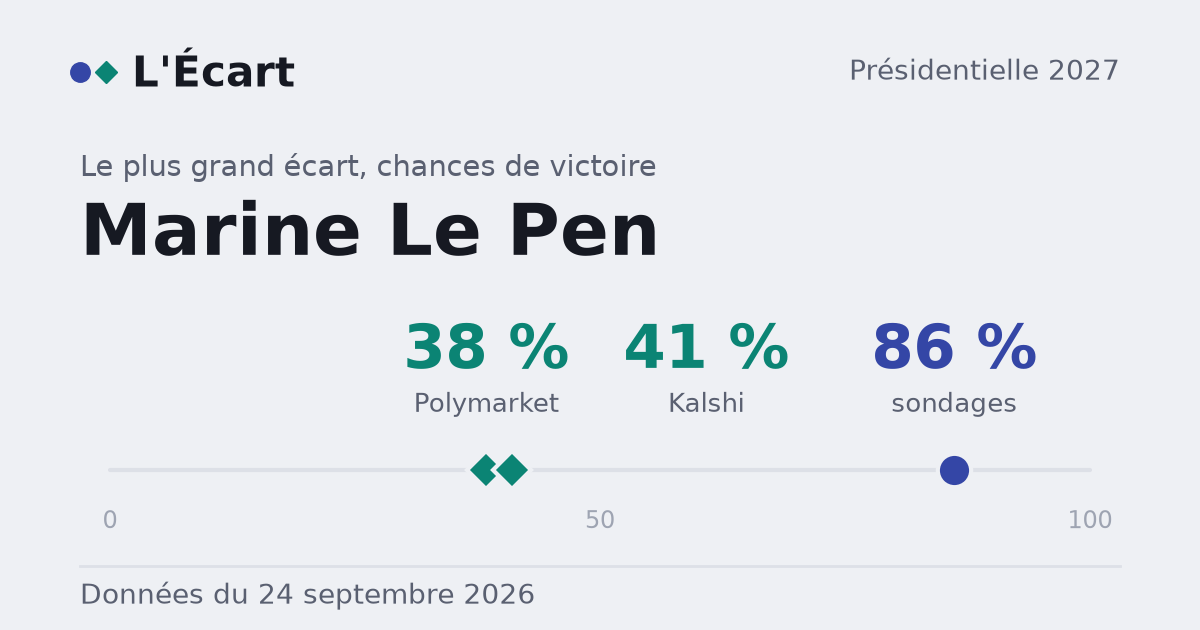
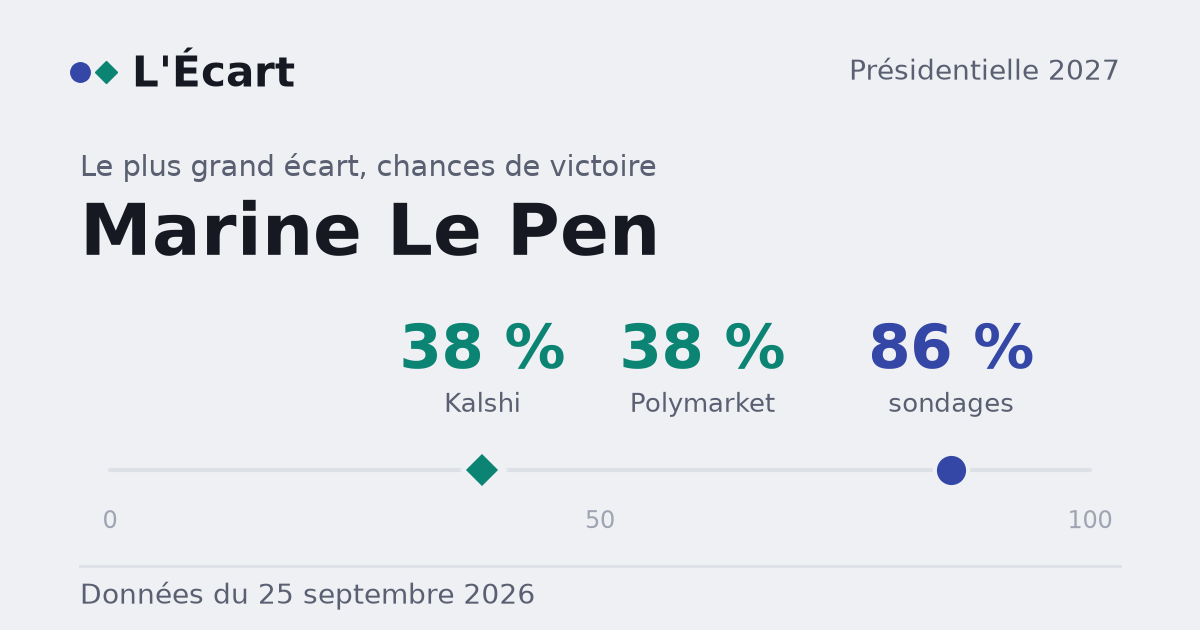
Daily data update 2026-09-25

diff --git a/index.html b/index.html
@@ -7,23 +7,23 @@
 <meta http-equiv="Content-Security-Policy" content="default-src 'self'; script-src 'self' https://gc.zgo.at; style-src 'self'; style-src-attr 'unsafe-inline'; font-src 'self'; img-src 'self' data: https://vikander.goatcounter.com; connect-src 'self' https://vikander.goatcounter.com; object-src 'none'; base-uri 'self'; form-action 'none'">
 <title>L'Écart · Marchés vs sondages, présidentielle 2027</title>
 <!--META-START-->
-<meta name="description" content="Les marchés attribuent à Marine Le Pen entre 38 % et 41 % de chances de l'emporter ; la simulation fondée sur les sondages, 86 %. L'Écart confronte, chaque jour, les probabilités implicites des marchés prédictifs aux probabilités simulées à partir des sondages. L'écart entre les deux mesures est l'objet de ce suivi.">
+<meta name="description" content="Les marchés attribuent à Marine Le Pen entre 38 % et 38 % de chances de l'emporter ; la simulation fondée sur les sondages, 86 %. L'Écart confronte, chaque jour, les probabilités implicites des marchés prédictifs aux probabilités simulées à partir des sondages. L'écart entre les deux mesures est l'objet de ce suivi.">
 <meta property="og:type" content="website">
 <meta property="og:site_name" content="L'Écart">
 <meta property="og:locale" content="fr_FR">
 <meta property="og:url" content="https://lukesegault.github.io/lecart/">
 <meta property="og:title" content="L'Écart · Marchés vs sondages, présidentielle 2027">
-<meta property="og:description" content="Les marchés attribuent à Marine Le Pen entre 38 % et 41 % de chances de l'emporter ; la simulation fondée sur les sondages, 86 %. L'Écart confronte, chaque jour, les probabilités implicites des marchés prédictifs aux probabilités simulées à partir des sondages. L'écart entre les deux mesures est l'objet de ce suivi.">
+<meta property="og:description" content="Les marchés attribuent à Marine Le Pen entre 38 % et 38 % de chances de l'emporter ; la simulation fondée sur les sondages, 86 %. L'Écart confronte, chaque jour, les probabilités implicites des marchés prédictifs aux probabilités simulées à partir des sondages. L'écart entre les deux mesures est l'objet de ce suivi.">
 <meta property="og:image" content="https://lukesegault.github.io/lecart/og-image.png">
 <meta property="og:image:width" content="1200">
 <meta property="og:image:height" content="630">
-<meta property="og:image:alt" content="Marine Le Pen, 86 % dans les sondages contre Polymarket 38 % / Kalshi 41 % sur les marchés (24 septembre 2026)">
+<meta property="og:image:alt" content="Marine Le Pen, 86 % dans les sondages contre Polymarket 38 % / Kalshi 38 % sur les marchés (25 septembre 2026)">
 <meta name="twitter:card" content="summary_large_image">
 <meta name="twitter:title" content="L'Écart · Marchés vs sondages, présidentielle 2027">
-<meta name="twitter:description" content="Les marchés attribuent à Marine Le Pen entre 38 % et 41 % de chances de l'emporter ; la simulation fondée sur les sondages, 86 %. L'Écart confronte, chaque jour, les probabilités implicites des marchés prédictifs aux probabilités simulées à partir des sondages. L'écart entre les deux mesures est l'objet de ce suivi.">
+<meta name="twitter:description" content="Les marchés attribuent à Marine Le Pen entre 38 % et 38 % de chances de l'emporter ; la simulation fondée sur les sondages, 86 %. L'Écart confronte, chaque jour, les probabilités implicites des marchés prédictifs aux probabilités simulées à partir des sondages. L'écart entre les deux mesures est l'objet de ce suivi.">
 <meta name="twitter:image" content="https://lukesegault.github.io/lecart/og-image.png">
-<meta name="twitter:image:alt" content="Marine Le Pen, 86 % dans les sondages contre Polymarket 38 % / Kalshi 41 % sur les marchés (24 septembre 2026)">
-<meta name="data-version" content="2026-09-24">
+<meta name="twitter:image:alt" content="Marine Le Pen, 86 % dans les sondages contre Polymarket 38 % / Kalshi 38 % sur les marchés (25 septembre 2026)">
+<meta name="data-version" content="2026-09-25">
 <!--META-END-->
 <link rel="preload" href="fonts/bodoni-moda-500-latin.woff2" as="font" type="font/woff2" crossorigin>
 <link rel="preload" href="fonts/ibm-plex-sans-400-latin.woff2" as="font" type="font/woff2" crossorigin>
@@ -53,7 +53,7 @@
 </div>
 <div id="mainContent">
 <p class="sp-kicker" data-i="ctx">Présidentielle 2027</p>
-<h1 class="sp-h1" id="siteH1">Les marchés attribuent à Marine Le Pen entre 38 % et 41 % de chances de l'emporter ; la simulation fondée sur les sondages, 86 %.</h1>
+<h1 class="sp-h1" id="siteH1">Les marchés attribuent à Marine Le Pen entre 38 % et 38 % de chances de l'emporter ; la simulation fondée sur les sondages, 86 %.</h1>
 <p class="sp-dek" data-i="dek">L'Écart confronte, chaque jour, les probabilités implicites des marchés prédictifs aux probabilités simulées à partir des sondages. L'écart entre les deux mesures est l'objet de ce suivi.</p>
 <div class="sp-meta"><span id="siteSnap"></span><span id="siteSources"></span></div>
 
@@ -153,7 +153,7 @@
   <h2 id="h-method" data-i="h2e">Méthode</h2>
   <div class="method">
     <p data-i="m1"><strong>Probabilité simulée à partir des sondages.</strong> Monte-Carlo, 20 000 tirages : chaque tirage prend un sondage de premier tour au hasard, y ajoute une erreur croissant avec le score, et garde les deux meilleurs. Le second tour vient de la moyenne des sondages de duel de la paire, plus une erreur ; les paires non testées se départagent au rapport de force du premier tour. Chaque candidature est supposée confirmée.</p><p data-i="m2"><strong>Incertitude retenue.</strong> Les sondages peuvent s'écarter nettement du résultat des mois à l'avance : cinq mois avant le premier tour de 2022, ils sous-estimaient Jean-Luc Mélenchon de plus de dix points. Le niveau « moyen » applique une erreur d'environ 1,5 point plus 20 % du score au premier tour, 6 points au second. Le réglage teste la sensibilité du résultat à cette hypothèse.</p><p data-i="m3"><strong>Probabilité implicite de marché.</strong> Deux places, montrées séparément, jamais en moyenne. Kalshi, bourse réglementée aux États-Unis, donne le prix du contrat vainqueur. Polymarket, bloqué en France par l'ANJ depuis juillet 2026, donne aussi celui de la qualification. Quand les deux cotent le même événement, la page montre les deux, ou leur intervalle. Prix datés, présentés comme des données, sans lien vers l'une ou l'autre plateforme, usage académique uniquement.</p><p data-i="m5"><strong>Liquidité.</strong> Le volume mesure la valeur échangée sur un marché depuis son ouverture ; la liquidité (Polymarket) ou la position ouverte (Kalshi) mesure l'encours disponible à l'achat ou à la vente. Un marché plus profond agrège plus d'opinions et réagit moins à un ordre isolé. En dessous de 20 000 $ de volume cumulé, un marché est signalé comme peu liquide.</p><p data-i="m4"><strong>Sources.</strong> Les sondages proviennent du dépôt ouvert <a href="https://github.com/MieuxVoter/presidentielle2027">MieuxVoter/presidentielle2027</a> (licence MIT), constitué à partir d'enquêtes publiées sous le contrôle de la Commission des sondages. Chaque sondage demeure la propriété de son institut et de son commanditaire.</p>
-    <details><summary data-i="pollsIncl">Sondages retenus (48)</summary>
+    <details><summary data-i="pollsIncl">Sondages retenus (51)</summary>
       <div class="table-wrap"><table id="polltable"><thead><tr><th data-i="thInst">Institut</th><th data-i="thFor">Commanditaire</th><th data-i="thField">Terrain</th><th data-i="thN">Échantillon</th><th>Le Pen</th><th>Philippe</th><th>Mélenchon</th></tr></thead><tbody></tbody></table></div>
     </details>
   </div>
@@ -173,7 +173,7 @@
     </ul>
     <p class="fine" data-i="dlNote">Sondages : MieuxVoter/presidentielle2027 (licence MIT). Prix : relevés publics, présentés comme des données.</p>
     <h3 data-i="citeT">Citer cette page</h3>
-    <p class="cite" data-i="cite">Segault, L. (2026). L'Écart : marchés et sondages, présidentielle 2027. https://lukesegault.github.io/lecart/ (mis à jour le 24 septembre 2026).</p>
+    <p class="cite" data-i="cite">Segault, L. (2026). L'Écart : marchés et sondages, présidentielle 2027. https://lukesegault.github.io/lecart/ (mis à jour le 25 septembre 2026).</p>
   </div>
 </section>
 </div>

diff --git a/second-tour.html b/second-tour.html
@@ -18,7 +18,7 @@
 <meta name="twitter:title" content="L'Écart · Second tour / Runoff">
 <meta name="twitter:description" content="Chaque duel de second tour testé par les instituts. / Every runoff pairing tested by pollsters.">
 <meta name="twitter:image" content="https://lukesegault.github.io/lecart/og-image.png">
-<meta name="data-version" content="2026-09-24">
+<meta name="data-version" content="2026-09-25">
 <link rel="preload" href="fonts/bodoni-moda-500-latin.woff2" as="font" type="font/woff2" crossorigin>
 <link rel="preload" href="fonts/ibm-plex-sans-400-latin.woff2" as="font" type="font/woff2" crossorigin>
 <link rel="stylesheet" href="fonts/fonts.css">

diff --git a/candidat.html b/candidat.html
@@ -18,7 +18,7 @@
 <meta name="twitter:title" content="L'Écart · Candidat / Candidate">
 <meta name="twitter:description" content="Un candidat, marché contre sondages. / One candidate, market against polls.">
 <meta name="twitter:image" content="https://lukesegault.github.io/lecart/og-image.png">
-<meta name="data-version" content="2026-09-24">
+<meta name="data-version" content="2026-09-25">
 <link rel="preload" href="fonts/bodoni-moda-500-latin.woff2" as="font" type="font/woff2" crossorigin>
 <link rel="preload" href="fonts/ibm-plex-sans-400-latin.woff2" as="font" type="font/woff2" crossorigin>
 <link rel="stylesheet" href="fonts/fonts.css">
